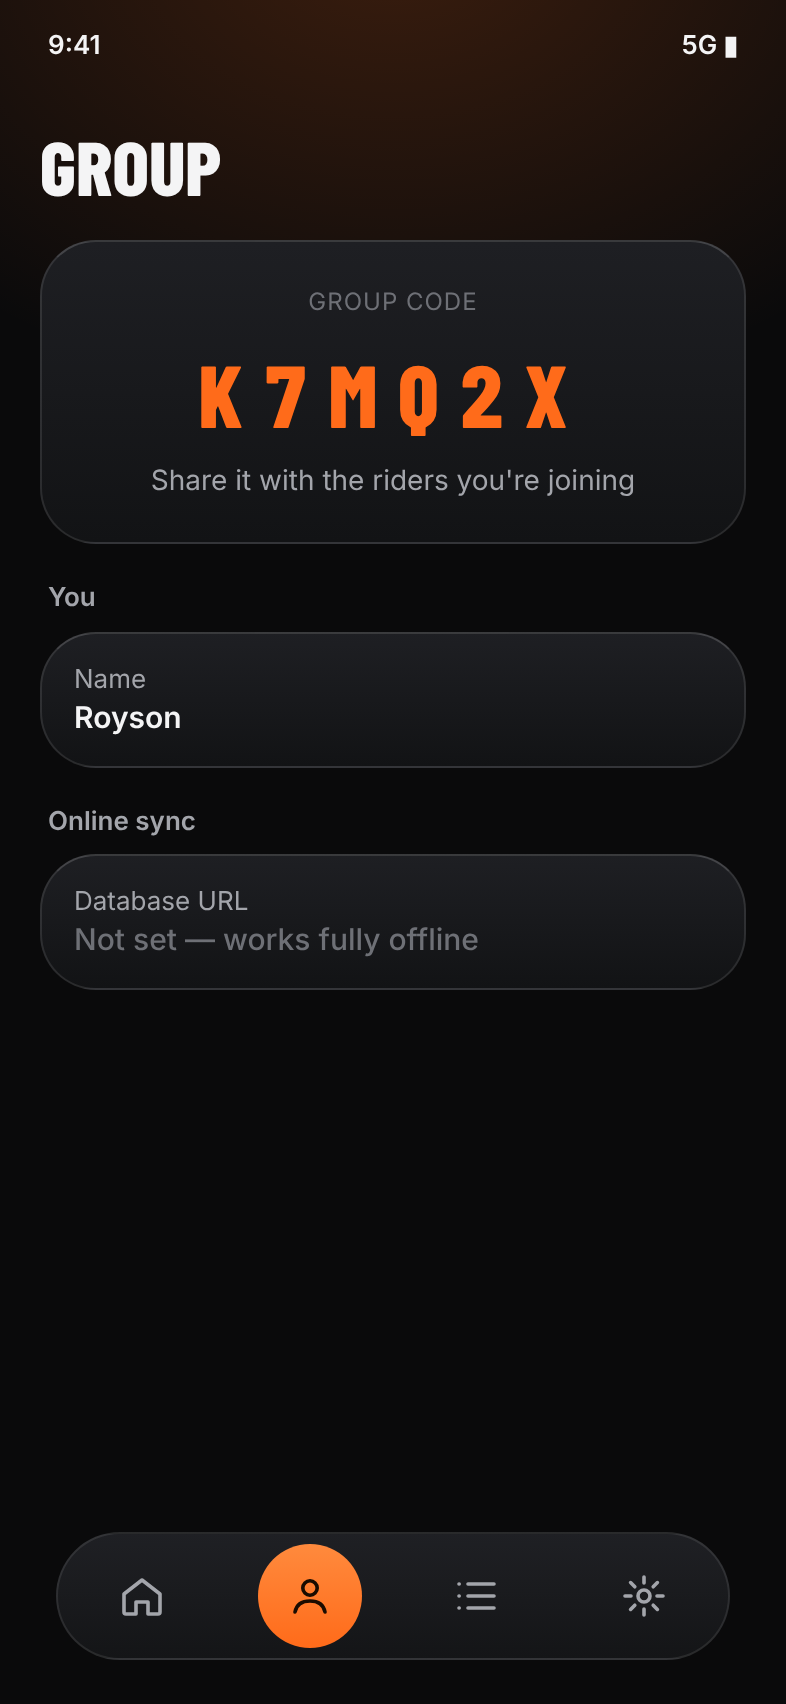
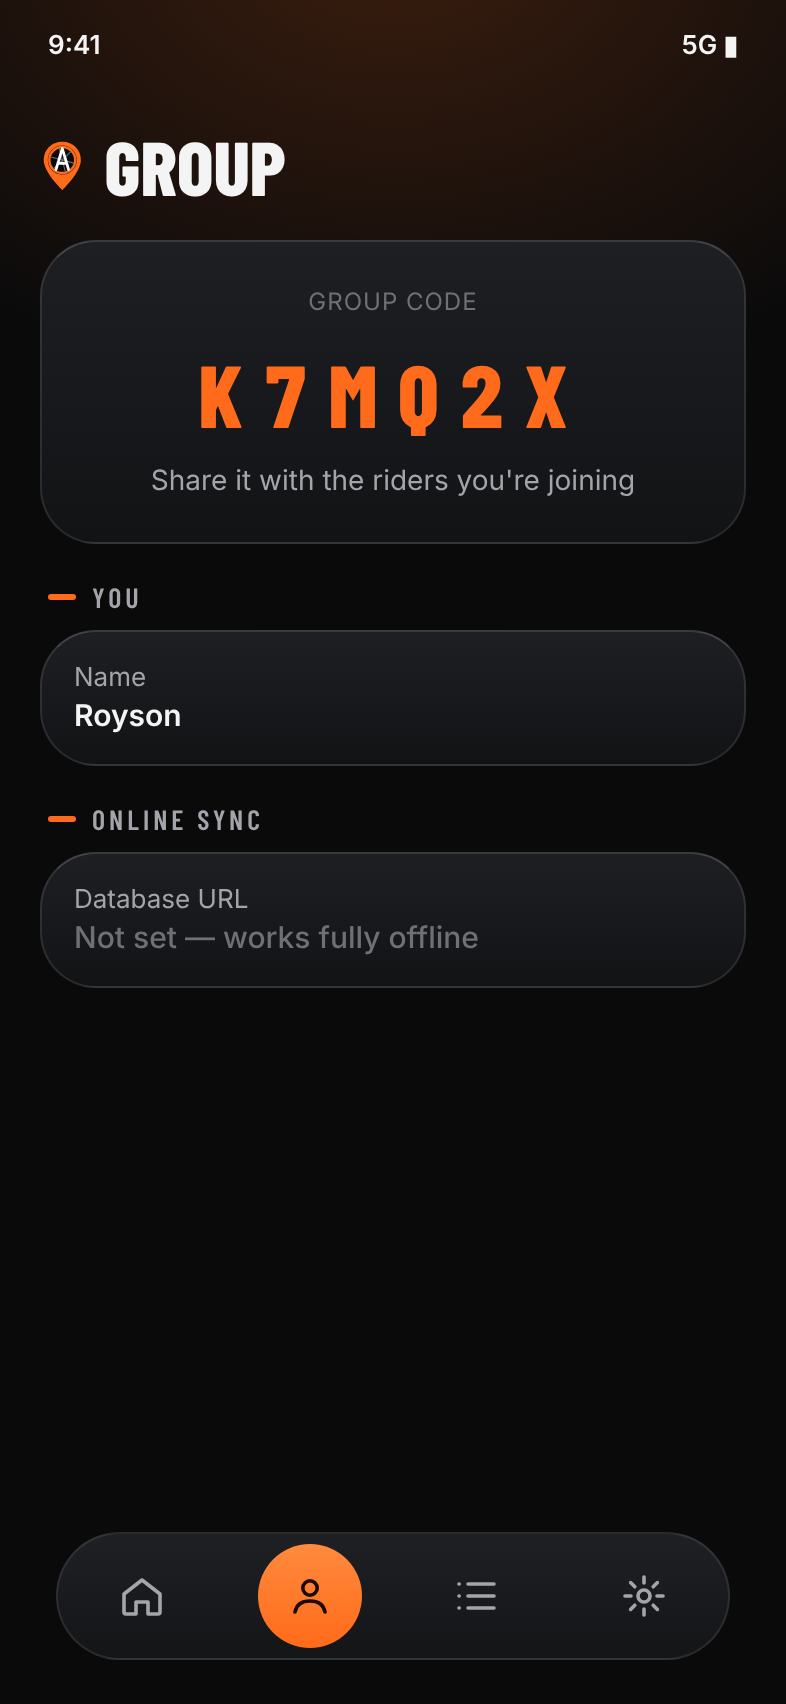
Carry the custom ARMOR look through Group, Log and Settings
Condensed capital screen titles with the logo, orange-tick section headings; previews regenerated.

diff --git a/app/src/main/kotlin/com/armor/app/ui/Components.kt b/app/src/main/kotlin/com/armor/app/ui/Components.kt
@@ -113,13 +113,19 @@ fun Card2(modifier: Modifier = Modifier, content: @Composable () -> Unit) {
 /** Group heading above a card, in the style of an inset grouped list. */
 @Composable
 fun SectionTitle(text: String) {
-    Txt(text, Type.Label, ArmorColors.Muted, Modifier.padding(start = 4.dp, top = 8.dp))
+    Row(Modifier.padding(start = 4.dp, top = 12.dp), verticalAlignment = Alignment.CenterVertically, horizontalArrangement = Arrangement.spacedBy(8.dp)) {
+        Box(Modifier.size(width = 14.dp, height = 3.dp).clip(CircleShape).background(ArmorColors.Orange))
+        Txt(text.uppercase(), Type.Eyebrow, ArmorColors.Muted)
+    }
 }
 
 @Composable
 fun ScreenTitle(text: String, sub: String? = null) {
     Column(Modifier.padding(bottom = 4.dp)) {
-        Txt(text, Type.Headline)
+        Row(verticalAlignment = Alignment.CenterVertically, horizontalArrangement = Arrangement.spacedBy(10.dp)) {
+            ArmorLogo(26.dp)
+            Txt(text.uppercase(), Type.Hero.copy(fontSize = 40.sp, lineHeight = 42.sp))
+        }
         if (sub != null) Txt(sub, Type.Body, ArmorColors.Muted, Modifier.padding(top = 2.dp))
     }
 }
